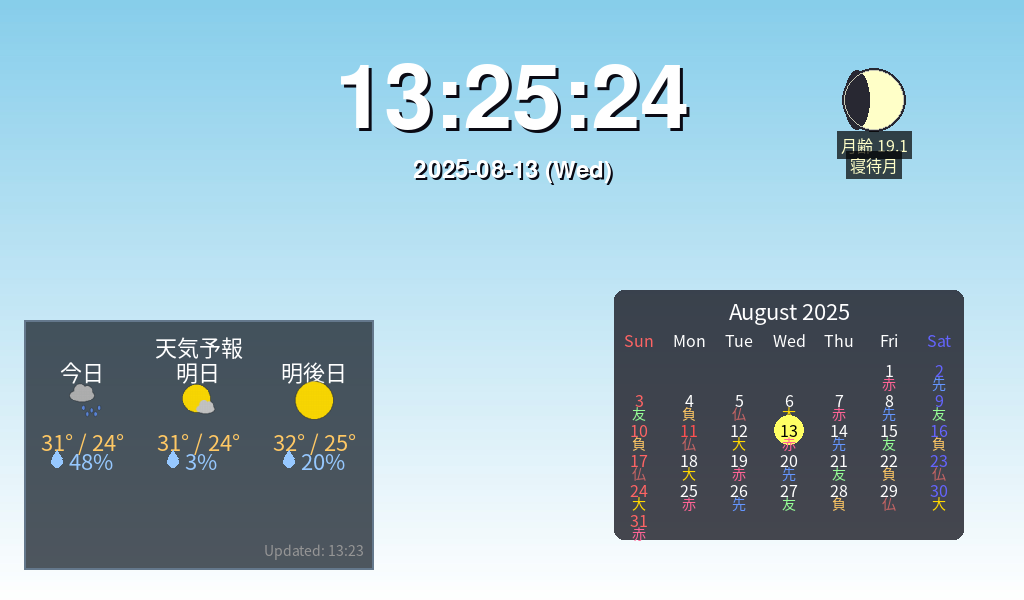
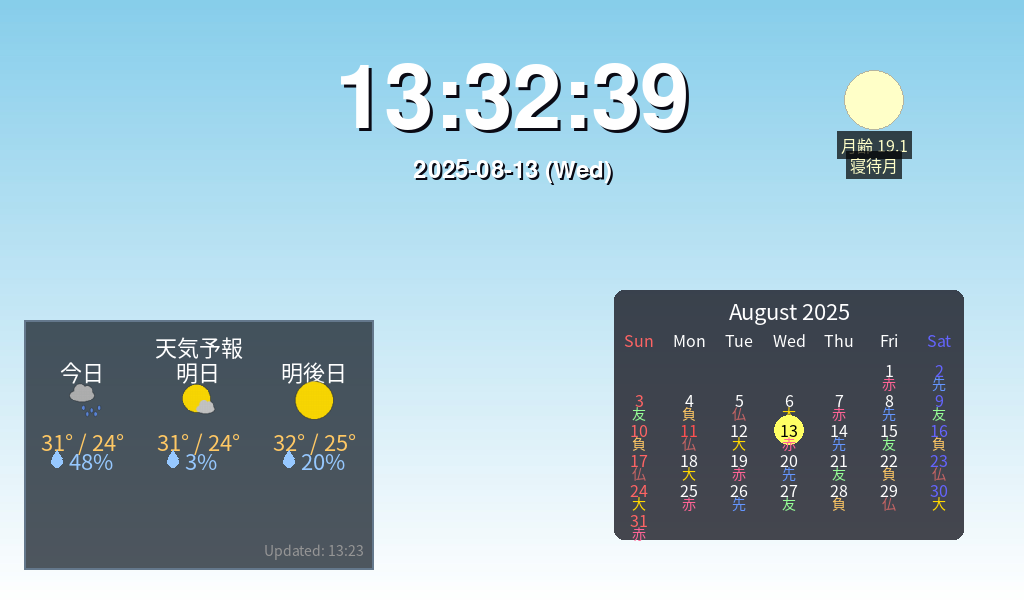
修正: 月の満ち欠け表示を復元
- ピクセル単位の描画から楕円クリッピング方式に戻す
- 月齢19.1（寝待月）で左側に影が正しく表示されるように修正
- 満月前後の描画ロジックを整理

🤖 Generated with [Claude Code](https://claude.ai/code)

Changed region(s): [[0.4375, 0.09, 0.6875, 0.24], [0.8125, 0.12, 0.875, 0.21]]

diff --git a/src/renderers/simple_moon_renderer.py b/src/renderers/simple_moon_renderer.py
@@ -236,119 +236,108 @@ class SimpleMoonRenderer:
         # 月の色
         moon_color = (255, 255, 200)  # 薄い黄色
         shadow_color = (40, 40, 50)   # 暗い影の色
-        outline_color = (180, 180, 160)  # 輪郭線の色
         
-        # 作業用サーフェースを作成（透明背景、アンチエイリアシング用に大きめ）
-        surface_size = radius * 2 + 6
-        moon_surface = pygame.Surface((surface_size, surface_size), pygame.SRCALPHA)
-        center_x = surface_size // 2
-        center_y = surface_size // 2
+        # 作業用サーフェースを作成（透明背景）
+        moon_surface = pygame.Surface((radius * 2 + 4, radius * 2 + 4), pygame.SRCALPHA)
+        center_x = radius + 2
+        center_y = radius + 2
         
         # 月齢を0-1の範囲に正規化
         phase = moon_age / 29.53
         
-        # アンチエイリアシングされた月を描画
         if phase < 0.03 or phase > 0.97:  # 新月（月齢0-1, 28.5-29.53）
             # 全体を暗く
             pygame.draw.circle(moon_surface, shadow_color, (center_x, center_y), radius)
-            pygame.draw.circle(moon_surface, (50, 50, 55), (center_x, center_y), radius, 1)
+            pygame.draw.circle(moon_surface, (60, 60, 60), (center_x, center_y), radius, 1)
             
         elif phase < 0.5:  # 新月から満月へ（月齢1-14.75）
-            # 右側が明るく、左側が暗い
-            # まず全体を暗くする
-            pygame.draw.circle(moon_surface, shadow_color, (center_x, center_y), radius)
+            # 基本の明るい円を描画
+            pygame.draw.circle(moon_surface, moon_color, (center_x, center_y), radius)
             
-            # 右側に明るい部分を描画
-            # phaseが増えるほど明るい部分が増える
-            illumination = phase * 2  # 0から1へ
+            # 左側に影を描画（三日月形を作る）
+            shadow_ratio = 1 - (phase * 2)  # 1から0へ
             
-            if illumination < 0.5:
-                # 三日月〜上弦前（細い明るい弧）
-                ellipse_width = int(radius * 2 * illumination)
+            if shadow_ratio > 0.01:  # 影がある場合
+                # 左半分をクリップ
+                clip_rect = pygame.Rect(0, 0, center_x, radius * 2 + 4)
+                moon_surface.set_clip(clip_rect)
+                
+                # 影の楕円の幅を計算
+                ellipse_width = int(radius * 2 * abs(shadow_ratio))
                 if ellipse_width > 0:
-                    # 右側だけ明るくする
-                    for i in range(radius):
-                        x_pos = center_x + i
-                        # 楕円の方程式で高さを計算
-                        if illumination > 0:
-                            height = int(radius * math.sqrt(1 - (i / radius) ** 2))
-                            # 楕円の幅に応じた明るい部分の幅
-                            bright_width = int(ellipse_width * math.sqrt(1 - (i / radius) ** 2) / radius)
-                            if bright_width > 0:
-                                pygame.draw.line(moon_surface, moon_color,
-                                               (x_pos, center_y - height),
-                                               (x_pos, center_y + height))
-            else:
-                # 上弦〜満月前（ほぼ全体が明るい）
-                pygame.draw.circle(moon_surface, moon_color, (center_x, center_y), radius)
-                # 左側に影を描画
-                shadow_width = int(radius * 2 * (1 - illumination))
-                if shadow_width > 0:
-                    for i in range(radius):
-                        x_pos = center_x - i
-                        height = int(radius * math.sqrt(1 - (i / radius) ** 2))
-                        shadow_x_width = int(shadow_width * math.sqrt(1 - (i / radius) ** 2) / radius)
-                        if shadow_x_width > 0:
-                            pygame.draw.line(moon_surface, shadow_color,
-                                           (x_pos, center_y - height),
-                                           (x_pos, center_y + height))
-                             
+                    ellipse_rect = pygame.Rect(
+                        center_x - ellipse_width // 2,
+                        center_y - radius,
+                        ellipse_width,
+                        radius * 2
+                    )
+                    # 楕円を塗りつぶして描画
+                    pygame.draw.ellipse(moon_surface, shadow_color, ellipse_rect, 0)
+                
+                # クリッピングを解除
+                moon_surface.set_clip(None)
+                
         elif phase < 0.53:  # 満月（月齢14.75-15.5）
             # 全体を明るく
             pygame.draw.circle(moon_surface, moon_color, (center_x, center_y), radius)
             # ハイライトを追加
-            highlight_radius = radius // 4
-            highlight_x = center_x - radius // 3
-            highlight_y = center_y - radius // 3
-            for i in range(highlight_radius):
-                alpha = 1 - (i / highlight_radius)
-                color = (
-                    min(255, int(255 + 20 * alpha)),
-                    min(255, int(255 + 20 * alpha)),
-                    min(255, int(220 + 35 * alpha))
-                )
-                pygame.draw.circle(moon_surface, color,
-                                 (highlight_x, highlight_y),
-                                 highlight_radius - i)
+            pygame.draw.circle(moon_surface, (255, 255, 220), 
+                             (center_x - radius // 3, center_y - radius // 3), 
+                             radius // 4)
                              
         else:  # 満月から新月へ（月齢15.5-29.53）
-            # 左側が暗く、右側が明るい
-            shadow_ratio = (phase - 0.5) * 2  # 0から1へ
+            # phaseが0.5を超えた分を計算
+            waning_phase = (phase - 0.5) * 2  # 0から1へ
             
-            if shadow_ratio < 0.5:  # 寝待月〜下弦（月齢15.5-22）
-                # 基本は明るく、左側に影を増やす
+            if waning_phase < 0.5:  # 満月直後～下弦（月齢15.5-22）
+                # 基本の明るい円を描画
                 pygame.draw.circle(moon_surface, moon_color, (center_x, center_y), radius)
-                # 左側に影を描画
-                shadow_width = int(radius * 2 * shadow_ratio)
+                
+                # 左側に影を増やしていく
+                shadow_width = int(radius * 2 * waning_phase)
+                
                 if shadow_width > 0:
-                    for i in range(radius):
-                        x_pos = center_x - i
-                        height = int(radius * math.sqrt(1 - (i / radius) ** 2))
-                        shadow_x_width = int(shadow_width * math.sqrt(1 - (i / radius) ** 2) / radius)
-                        if shadow_x_width > 0:
-                            pygame.draw.line(moon_surface, shadow_color,
-                                           (x_pos, center_y - height),
-                                           (x_pos, center_y + height))
+                    # 左半分をクリップ
+                    clip_rect = pygame.Rect(0, 0, center_x, radius * 2 + 4)
+                    moon_surface.set_clip(clip_rect)
+                    
+                    ellipse_rect = pygame.Rect(
+                        center_x - shadow_width // 2,
+                        center_y - radius,
+                        shadow_width,
+                        radius * 2
+                    )
+                    pygame.draw.ellipse(moon_surface, shadow_color, ellipse_rect, 0)
+                    
+                    # クリッピングを解除
+                    moon_surface.set_clip(None)
                     
             else:  # 下弦から新月へ（月齢22-29.53）
-                # 全体を暗くして、右側だけ明るい三日月
+                # 全体を暗くする
                 pygame.draw.circle(moon_surface, shadow_color, (center_x, center_y), radius)
                 
-                # 右側に明るい部分を描画
-                light_ratio = 1 - shadow_ratio  # 1から0へ
+                # 右側に明るい三日月を描画
+                light_ratio = 2 - waning_phase * 2  # 1から0へ
                 bright_width = int(radius * 2 * light_ratio)
+                
                 if bright_width > 0:
-                    for i in range(radius):
-                        x_pos = center_x + i
-                        height = int(radius * math.sqrt(1 - (i / radius) ** 2))
-                        bright_x_width = int(bright_width * math.sqrt(1 - (i / radius) ** 2) / radius)
-                        if bright_x_width > 0:
-                            pygame.draw.line(moon_surface, moon_color,
-                                           (x_pos, center_y - height),
-                                           (x_pos, center_y + height))
+                    # 右半分をクリップ
+                    clip_rect = pygame.Rect(center_x, 0, center_x + 2, radius * 2 + 4)
+                    moon_surface.set_clip(clip_rect)
+                    
+                    ellipse_rect = pygame.Rect(
+                        center_x - bright_width // 2,
+                        center_y - radius,
+                        bright_width,
+                        radius * 2
+                    )
+                    pygame.draw.ellipse(moon_surface, moon_color, ellipse_rect, 0)
+                    
+                    # クリッピングを解除
+                    moon_surface.set_clip(None)
         
-        # 輪郭線を描画（アンチエイリアシング効果）
-        pygame.draw.circle(moon_surface, outline_color, (center_x, center_y), radius, 1)
+        # 輪郭線を描画
+        pygame.draw.circle(moon_surface, (200, 200, 180), (center_x, center_y), radius, 1)
         
         # 完成した月を画面に描画
         screen.blit(moon_surface, (x - center_x, y - center_y))
